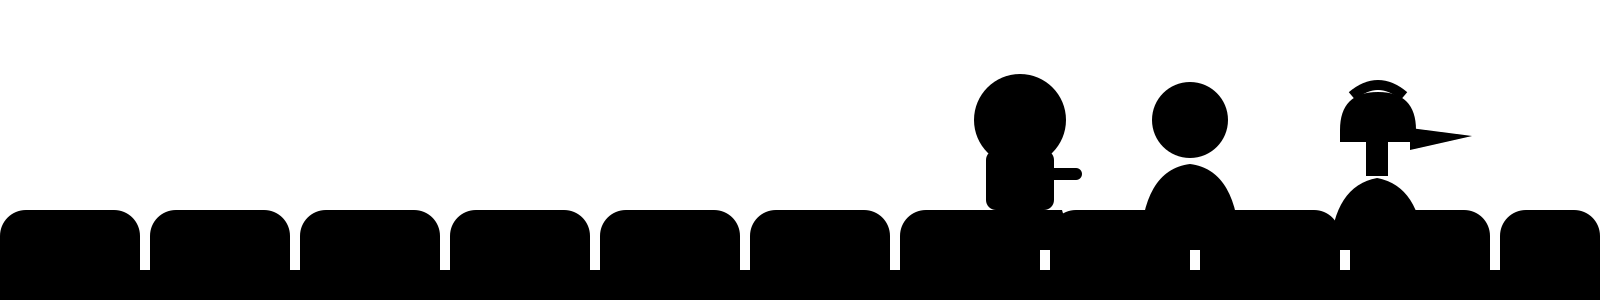
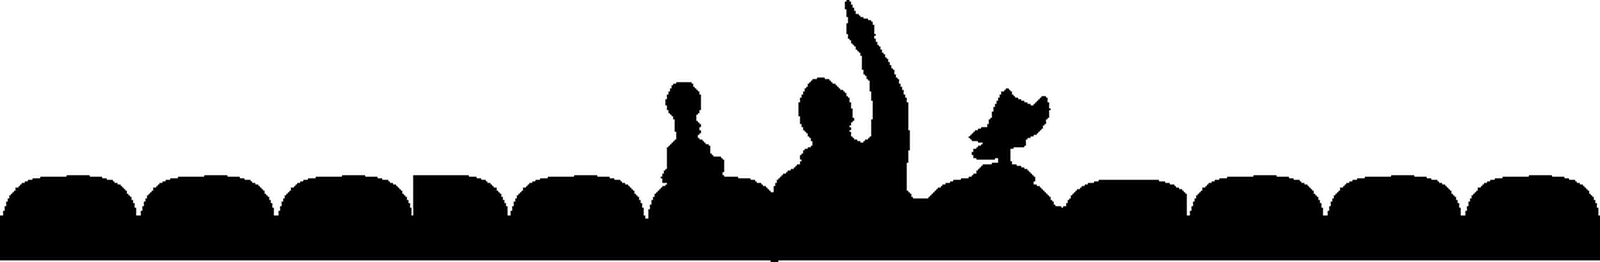
The reel runs, and the theater row is Tim's own drawing
Two asks from Tim, 2026-08-21, on watching the first cut.

THE REEL RUNS. The sprocket holes slide right to left as if the film were being
pulled through a projector. The trick is that the row is a REPEAT: the holes sit
on a fixed pitch and the whole row slides left by exactly one pitch before
snapping back, so the snap is invisible and nothing accumulates. Two extra holes
cover the gap the slide opens at the right edge, the strip clips its own row, and
it all rides the native driver - it is a transform and nothing else, so a
decoding film pays nothing for it.
AND IT STOPS WHEN THE FILM STOPS, which is the point: a strip that keeps running
over a paused picture is a decoration, and one that halts with it is a projector.
SPEED IS NOT REALISM: a projector pulls 24 frames a second and a frame is four
perforations, so the true rate is 96 holes a second, which is a grey blur and a
strobe against a 60 Hz screen. 420 ms per hole reads as film running.

THE THEATER ROW IS TIM'S DRAWING now, replacing the approximation from #58.
It needed one piece of work to fit: at 500x169 it would have covered 60% of a
16:9 frame drawn full width, so the seat row was extended rather than the figures
shrunk. The slice between the drawing's two deepest valleys is one seat that
meets itself; three of them at each end make a 1600x262 asset that reaches both
edges with the figures still their own size.

The IP question the original raised is unchanged and still logged: revisit the
[…]

diff --git a/app/index.tsx b/app/index.tsx
@@ -77,6 +77,57 @@ function parseVtt (raw: string): Cue[] {
   return cues
 }
 
+// THE 35mm STRIP, RUNNING. Tim, 2026-08-21: "can we make them move right to left as if
+// the cinema reel were running?"
+//
+// The trick is that the row is a REPEAT: the holes sit on a fixed pitch and the whole row
+// slides left by exactly one pitch before snapping back, so the snap is invisible and the
+// motion never accumulates. Two extra holes cover the gap the slide opens at the right
+// edge. Everything moves on the native driver - it is a transform and nothing else, so it
+// costs the JS thread nothing while a film is decoding.
+//
+// AND IT STOPS WHEN THE FILM STOPS, which is the whole reason it is worth having: a strip
+// that keeps running over a paused picture is a decoration, and one that halts with it is
+// the projector.
+//
+// SPEED IS NOT REALISM. A projector pulls 24 frames a second and a frame is four
+// perforations, so a true rate is 96 holes a second - a grey blur, and a strobe against a
+// 60 Hz screen. This is slow enough to read as film running.
+const SPROCKET_MS = 420
+
+function FilmStrip ({ left, top, width, height, running }: { left: number, top: number, width: number, height: number, running: boolean }) {
+  const count = Math.max(6, Math.round(width / 46))
+  const pitch = width / count
+  const x = useRef(new Animated.Value(0)).current
+
+  useEffect(() => {
+    x.setValue(0)
+    if (!running) return
+    const loop = Animated.loop(Animated.timing(x, {
+      toValue: -pitch,
+      duration: SPROCKET_MS,
+      easing: Easing.linear,
+      useNativeDriver: true
+    }))
+    loop.start()
+    return () => loop.stop()
+  }, [running, pitch])
+
+  const holeW = Math.max(3, height * 0.52)
+  const holeH = Math.max(3, height * 0.58)
+  return (
+    <View pointerEvents='none' style={[styles.filmStrip, { left, top, width, height }]}>
+      <Animated.View style={[styles.filmStripRow, { transform: [{ translateX: x }] }]}>
+        {Array.from({ length: count + 2 }, (_, i) => (
+          <View key={i} style={{ width: pitch, alignItems: 'center' }}>
+            <View style={[styles.sprocket, { width: holeW, height: holeH }]} />
+          </View>
+        ))}
+      </Animated.View>
+    </View>
+  )
+}
+
 // The strip behind the page, in both themes. These are styles.css's own
 // --color-surface-base values: the shell's background has to BE the page's background,
 // or the seam shows as a band under the status bar. The dark one was #0f0d0a, a shade
@@ -961,16 +1012,23 @@ export default function App () {
                 like everything else that is not a control. */}
             {playing.skin === 'film' && pict && (() => {
               const stripH = Math.max(14, Math.min(30, pict.h * 0.07))
-              const holes = Array.from({ length: Math.max(6, Math.round(pict.w / 46)) }, (_, i) => (
-                <View key={i} style={[styles.sprocket, { width: stripH * 0.52, height: stripH * 0.58 }]} />
-              ))
+              // Both edges are the SAME piece of film, so they run together.
               return (
                 <>
-                  <View pointerEvents='none' style={[styles.filmStrip, { left: pict.left, top: pict.top, width: pict.w, height: stripH }]}>{holes}</View>
-                  <View pointerEvents='none' style={[styles.filmStrip, { left: pict.left, top: pict.top + pict.h - stripH, width: pict.w, height: stripH }]}>{holes}</View>
+                  <FilmStrip left={pict.left} top={pict.top} width={pict.w} height={stripH} running={isPlaying} />
+                  <FilmStrip left={pict.left} top={pict.top + pict.h - stripH} width={pict.w} height={stripH} running={isPlaying} />
                 </>
               )
             })()}
+            {/* THE THEATER ROW, Tim's own drawing (2026-08-21) rather than the drawn
+                approximation that shipped in #58. The asset is 1600x262 and is drawn at
+                the picture's full width, so the ratio below IS the asset - change one and
+                change the other.
+                THE SEAT ROW WAS EXTENDED to get here: the drawing is 500 wide and would
+                have covered 60% of a 16:9 frame at full width, so one seat - the slice
+                between the two deepest valleys, which meets itself - was repeated three
+                times at each end. The figures keep their size and the row still reaches
+                both edges. */}
             {playing.skin === 'mst3k' && pict && (
               <Image
                 pointerEvents='none'
@@ -979,8 +1037,8 @@ export default function App () {
                   position: 'absolute',
                   left: pict.left,
                   width: pict.w,
-                  height: pict.w * (300 / 1600),
-                  top: pict.top + pict.h - pict.w * (300 / 1600)
+                  height: pict.w * (262 / 1600),
+                  top: pict.top + pict.h - pict.w * (262 / 1600)
                 }}
                 resizeMode='stretch'
               />
@@ -1221,8 +1279,12 @@ const styles = StyleSheet.create({
   ctlOff: { opacity: 0.35 },
   filmStrip: {
     position: 'absolute', flexDirection: 'row', alignItems: 'center',
-    justifyContent: 'space-evenly', backgroundColor: 'rgba(8,8,8,0.92)'
+    backgroundColor: 'rgba(8,8,8,0.92)',
+    // The row inside is one pitch wider than the strip and slides; without this the
+    // overhanging hole is drawn outside the film and rides over the picture.
+    overflow: 'hidden'
   },
+  filmStripRow: { flexDirection: 'row', alignItems: 'center', height: '100%' },
   sprocket: { backgroundColor: 'rgba(240,234,220,0.85)', borderRadius: 3 },
   ctlTime: { color: '#efe9df', fontVariant: ['tabular-nums'], fontSize: 12 },
   // The touch target is much taller than the painted track, or a moving thumb
